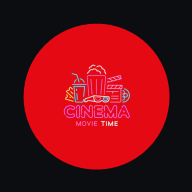
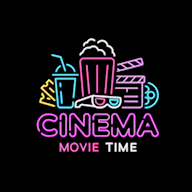
Apply Cinema Movie Time branding

diff --git a/frontend/components/pwa-install-prompt.tsx b/frontend/components/pwa-install-prompt.tsx
@@ -1,7 +1,7 @@
 'use client'
 
 import { useEffect, useMemo, useState } from 'react'
-import { Download, RefreshCw, Share, Smartphone, X } from 'lucide-react'
+import { Download, RefreshCw, X } from 'lucide-react'
 
 interface BeforeInstallPromptEvent extends Event {
   prompt: () => Promise<void>
@@ -90,8 +90,8 @@ export default function PWAInstallPrompt() {
             <X className="h-4 w-4" />
           </button>
           <div className="flex gap-3 pr-8">
-            <div className="flex h-11 w-11 shrink-0 items-center justify-center rounded-xl bg-[#e50914] text-white">
-              <Smartphone className="h-5 w-5" />
+            <div className="flex h-12 w-12 shrink-0 items-center justify-center overflow-hidden rounded-xl border border-[#252a32] bg-black">
+              <img src="/logo.png" alt="CinemaHub Movie Time" className="h-full w-full object-contain" />
             </div>
             <div>
               <p className="font-semibold text-white">Install CinemaHub</p>
@@ -114,8 +114,8 @@ export default function PWAInstallPrompt() {
             <X className="h-4 w-4" />
           </button>
           <div className="flex gap-3 pr-8">
-            <div className="flex h-11 w-11 shrink-0 items-center justify-center rounded-xl bg-[#e50914] text-white">
-              <Share className="h-5 w-5" />
+            <div className="flex h-12 w-12 shrink-0 items-center justify-center overflow-hidden rounded-xl border border-[#252a32] bg-black">
+              <img src="/logo.png" alt="CinemaHub Movie Time" className="h-full w-full object-contain" />
             </div>
             <div>
               <p className="font-semibold text-white">Add CinemaHub to Home Screen</p>

diff --git a/frontend/components/navigation.tsx b/frontend/components/navigation.tsx
@@ -53,10 +53,12 @@ export default function Navigation() {
       <div className="cinema-container">
         <div className="flex h-16 items-center gap-4 lg:h-18">
           <Link href="/" className="flex shrink-0 items-center gap-3" onClick={closeMobile}>
-            <span className="flex h-10 w-10 items-center justify-center rounded-xl bg-[#e50914] text-white">
-              <Clapperboard className="h-5 w-5" />
-            </span>
-            <span className="hidden text-lg font-semibold tracking-tight text-white sm:block">CinemaHub</span>
+            <img
+              src="/logo.png"
+              alt="CinemaHub Movie Time"
+              className="h-12 w-28 object-contain drop-shadow-[0_0_12px_rgba(236,72,153,0.35)] sm:w-36"
+            />
+            <span className="sr-only">CinemaHub</span>
           </Link>
 
           <div className="relative hidden max-w-md flex-1 lg:block">

diff --git a/frontend/components/footer.tsx b/frontend/components/footer.tsx
@@ -62,7 +62,7 @@ export default function Footer() {
               <div style={{ width: '380px', height: '100px' }}>
                 <img 
                   src="/logo.png" 
-                  alt="CinemaHub" 
+                  alt="CinemaHub Movie Time" 
                   className="w-full h-full object-contain group-hover:scale-105 transition-transform duration-300"
                   style={{ 
                     filter: 'drop-shadow(0 2px 4px rgba(0,0,0,0.3))',

diff --git a/frontend/components/admin-sidebar.tsx b/frontend/components/admin-sidebar.tsx
@@ -80,7 +80,7 @@ export default function AdminSidebar() {
             <div style={{ width: '200px', height: '60px' }}>
               <img 
                 src="/logo.png" 
-                alt="CinemaHub Admin" 
+                alt="CinemaHub Movie Time Admin" 
                 className="w-full h-full object-contain"
                 style={{ 
                   filter: 'drop-shadow(0 2px 4px rgba(0,0,0,0.3))'

diff --git a/frontend/app/layout.tsx b/frontend/app/layout.tsx
@@ -54,6 +54,7 @@ export const metadata: Metadata = {
   },
   icons: {
     icon: [
+      { url: '/favicon-32x32.png', sizes: '32x32', type: 'image/png' },
       { url: '/pwa-icon-192.png', sizes: '192x192', type: 'image/png' },
       { url: '/pwa-icon-512.png', sizes: '512x512', type: 'image/png' },
     ],
